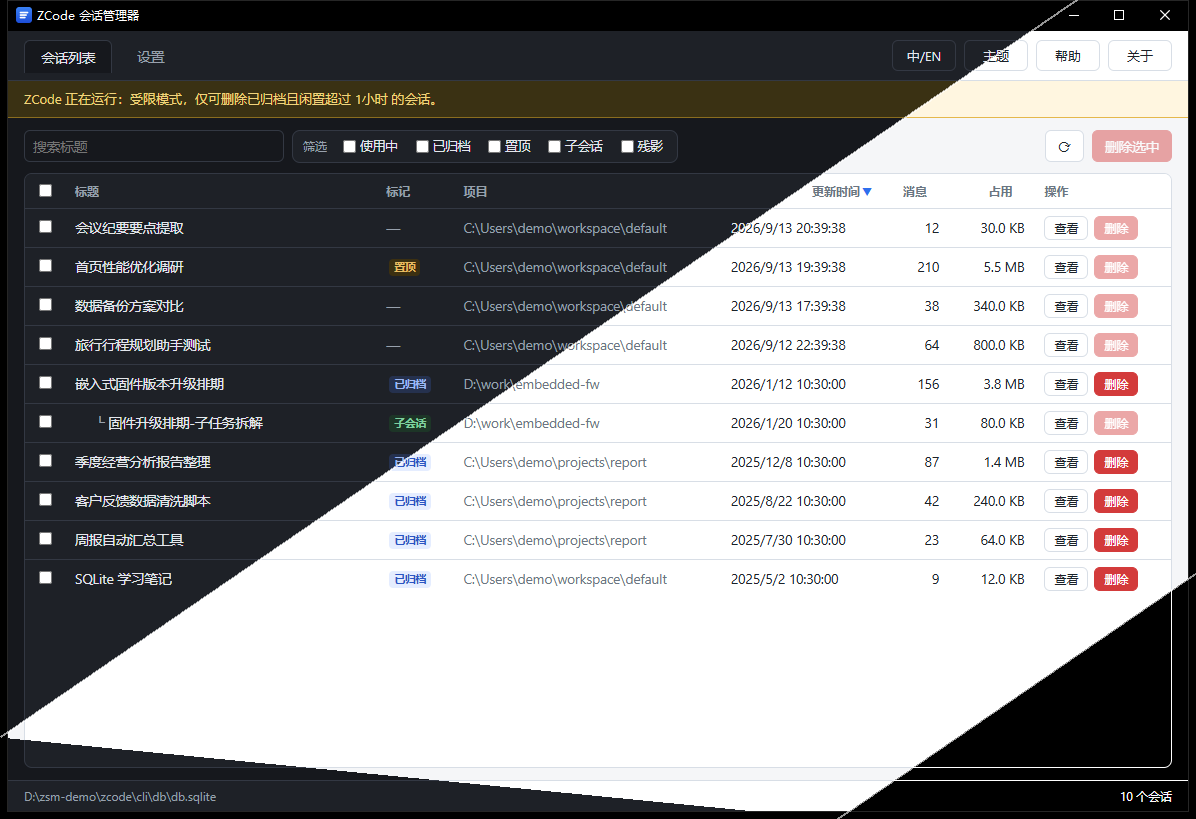
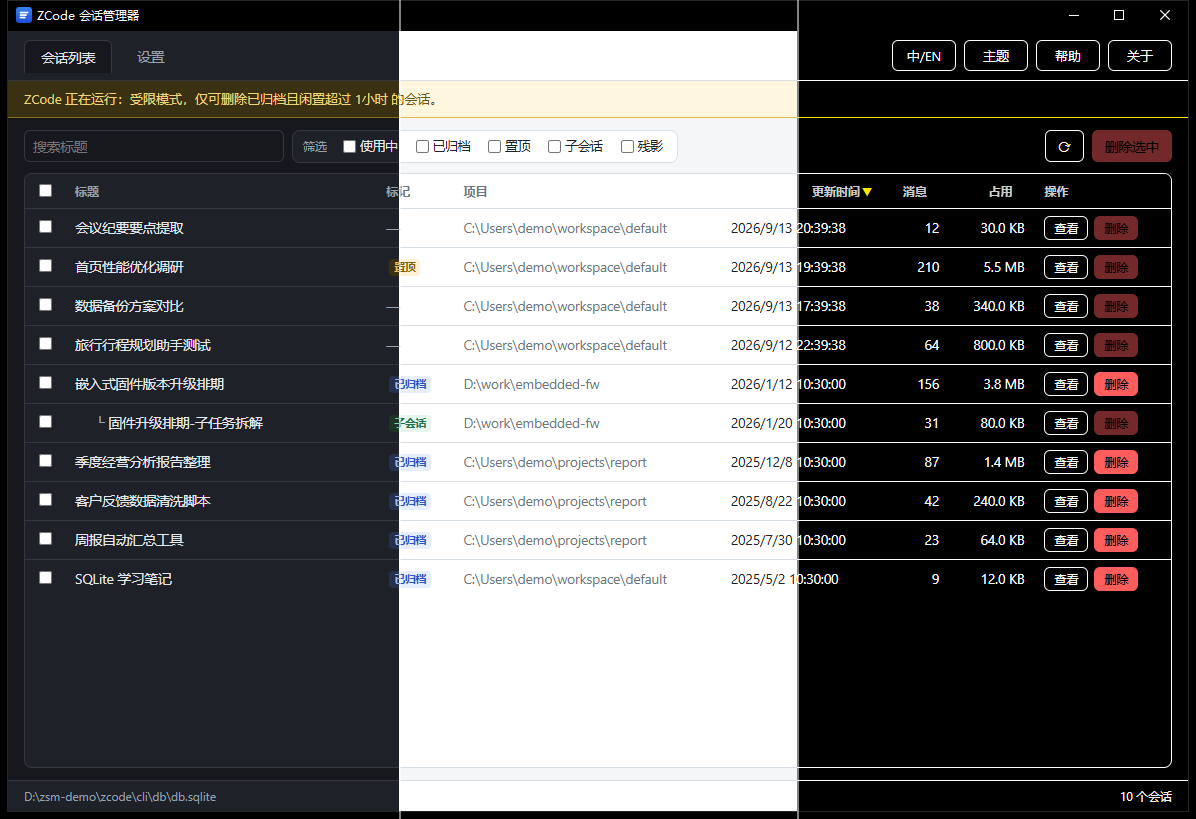
docs: theme slice screenshot switched to three equal vertical bands
Equal vertical thirds replaced the diagonal composition — every theme now
shows the full window height (toolbar to status bar), so no theme is stuck
with an empty corner. make_theme_slice.py grew a --mode vertical|diagonal
switch to keep both options available.

diff --git a/tools/make_theme_slice.py b/tools/make_theme_slice.py
@@ -1,20 +1,23 @@
-"""Compose a diagonal three-theme "sliced puzzle" screenshot.
+"""Compose a three-theme "sliced puzzle" screenshot.
 
 The three input shots must be pixel-aligned (same window, same data, only
-the theme differs). The image is split by two diagonal lines running from
-top-left to bottom-right — parameterized as x/W + y/H = c — and each band
-is filled from one of the inputs, with a soft separator line on the seams.
+the theme differs). Two modes:
+
+    --mode vertical  three equal vertical stripes (default)
+    --mode diagonal  two diagonal bands, x/w + y/h = c1 / c2
+
+A soft separator line marks each seam.
 
 Usage:
     python tools/make_theme_slice.py FIRST SECOND THIRD --out OUT
-        [--c1 0.72] [--c2 1.38] [--sep 3]
+        [--mode vertical|diagonal] [--c1 0.9] [--c2 1.7] [--sep 2]
 """
 
 import argparse
 from PIL import Image, ImageDraw
 
 
-def edge_points(c, w, h):
+def diagonal_seam(c, w, h):
     """The two points where the line x/w + y/h = c crosses the image rect."""
     pts = []
     for x, y in ((c * w, 0), (0, c * h), (w, (c - 1) * h), ((c - 1) * w, h)):
@@ -25,13 +28,14 @@ def edge_points(c, w, h):
 
 def main():
     ap = argparse.ArgumentParser()
-    ap.add_argument("first", help="image for the top-left band")
-    ap.add_argument("second", help="image for the middle band")
-    ap.add_argument("third", help="image for the bottom-right band")
+    ap.add_argument("first", help="image for the first band")
+    ap.add_argument("second", help="image for the second band")
+    ap.add_argument("third", help="image for the third band")
     ap.add_argument("--out", required=True)
-    ap.add_argument("--c1", type=float, default=0.72, help="first seam, x/w + y/h = c1")
-    ap.add_argument("--c2", type=float, default=1.38, help="second seam, x/w + y/h = c2")
-    ap.add_argument("--sep", type=int, default=3, help="separator width in px")
+    ap.add_argument("--mode", choices=["vertical", "diagonal"], default="vertical")
+    ap.add_argument("--c1", type=float, default=0.9, help="diagonal: first seam, x/w + y/h = c1")
+    ap.add_argument("--c2", type=float, default=1.7, help="diagonal: second seam, x/w + y/h = c2")
+    ap.add_argument("--sep", type=int, default=2, help="separator width in px")
     args = ap.parse_args()
 
     a = Image.open(args.first).convert("RGB")
@@ -44,26 +48,43 @@ def main():
 
     out = Image.new("RGBA", (w, h))
     out.paste(a, (0, 0))
+    seams = []
 
-    poly2 = [(args.c1 * w, 0), (w, 0), (w, h * (args.c2 - 1)), ((args.c2 - 1) * w, h), (0, args.c1 * h)]
-    poly3 = [(w, h * (args.c2 - 1)), (w, h), ((args.c2 - 1) * w, h)]
-    mask = Image.new("L", (w, h), 0)
-    ImageDraw.Draw(mask).polygon(poly2, fill=255)
-    out.paste(b, (0, 0), mask)
-    mask = Image.new("L", (w, h), 0)
-    ImageDraw.Draw(mask).polygon(poly3, fill=255)
-    out.paste(c, (0, 0), mask)
+    if args.mode == "vertical":
+        x1, x2 = round(w / 3), round(w * 2 / 3)
+        mask = Image.new("L", (w, h), 0)
+        ImageDraw.Draw(mask).rectangle((x1, 0, x2 - 1, h), fill=255)
+        out.paste(b, (0, 0), mask)
+        mask = Image.new("L", (w, h), 0)
+        ImageDraw.Draw(mask).rectangle((x2, 0, w, h), fill=255)
+        out.paste(c, (0, 0), mask)
+        seams = [(x1, 0), (x1, h)], [(x2, 0), (x2, h)]
+    else:
+        poly2 = [
+            (args.c1 * w, 0),
+            (w, 0),
+            (w, h * (args.c2 - 1)),
+            ((args.c2 - 1) * w, h),
+            (0, args.c1 * h),
+        ]
+        poly3 = [(w, h * (args.c2 - 1)), (w, h), ((args.c2 - 1) * w, h)]
+        mask = Image.new("L", (w, h), 0)
+        ImageDraw.Draw(mask).polygon(poly2, fill=255)
+        out.paste(b, (0, 0), mask)
+        mask = Image.new("L", (w, h), 0)
+        ImageDraw.Draw(mask).polygon(poly3, fill=255)
+        out.paste(c, (0, 0), mask)
+        seams = diagonal_seam(args.c1, w, h), diagonal_seam(args.c2, w, h)
 
     overlay = Image.new("RGBA", (w, h), (0, 0, 0, 0))
     od = ImageDraw.Draw(overlay)
-    for cline in (args.c1, args.c2):
-        pts = edge_points(cline, w, h)
-        if len(pts) == 2:
-            od.line([pts[0], pts[1]], fill=(255, 255, 255, 150), width=args.sep)
+    for p1, p2 in seams:
+        od.line([p1, p2], fill=(255, 255, 255, 130), width=args.sep)
     out = Image.alpha_composite(out, overlay).convert("RGB")
     out.save(args.out)
-    print(f"composed {args.out} ({w} x {h}, seams at {args.c1}/{args.c2})")
+    print(f"composed {args.out} ({w} x {h}, mode={args.mode})")
 
 
 if __name__ == "__main__":
     main()
+
